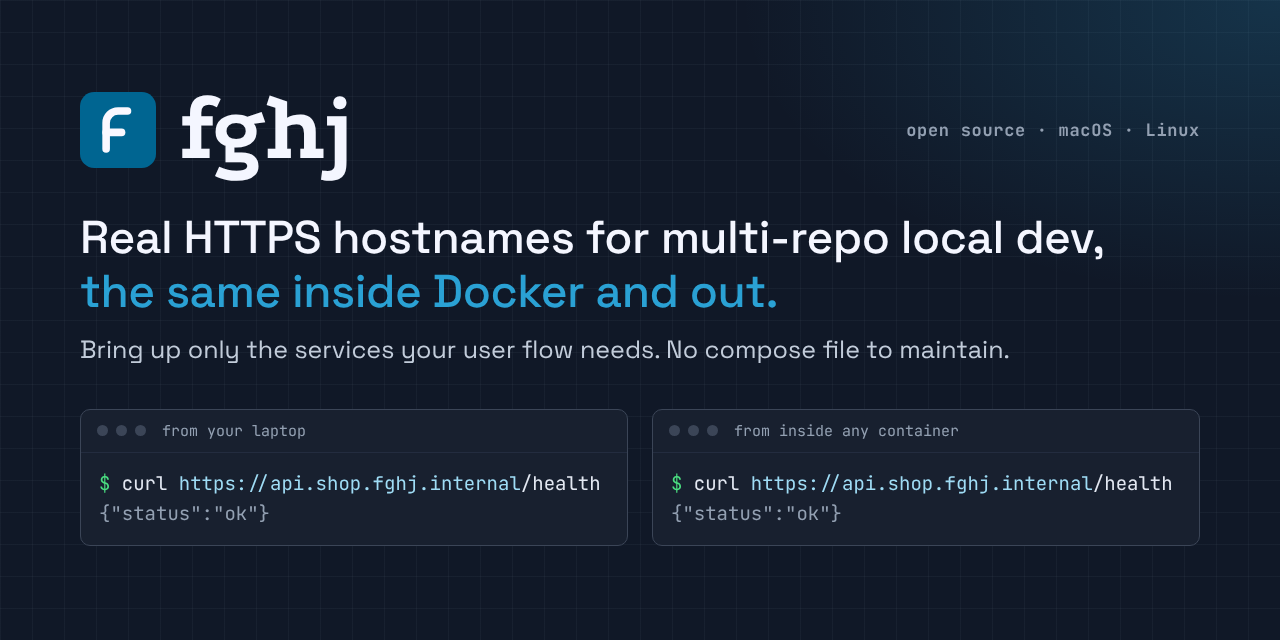
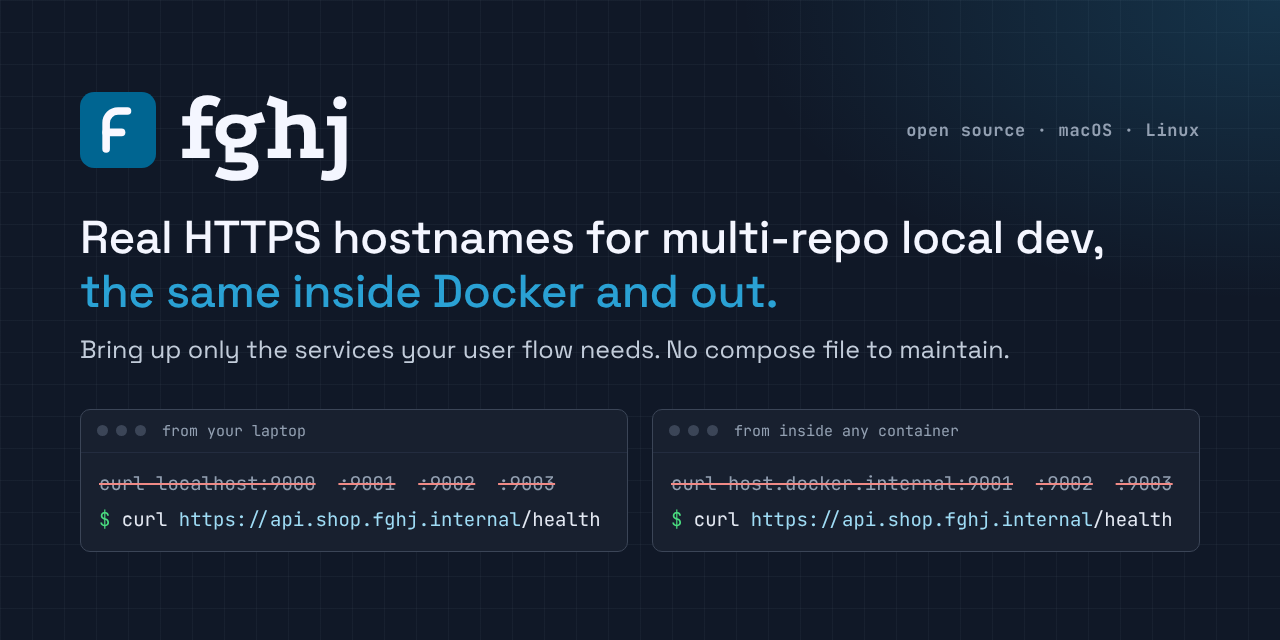
Social preview: show the port juggling fghj replaces

diff --git a/docs/record/social-preview.html b/docs/record/social-preview.html
@@ -22,6 +22,7 @@ body::before{content:"";position:absolute;inset:0;background:
 .t .bar span{width:11px;height:11px;border-radius:50%;background:#3b4557}
 .t .bar em{font-style:normal;margin-left:8px}
 .t pre{padding:16px 18px;font-family:'JetBrains Mono',monospace;font-size:19px;line-height:1.6;color:#e3e8f2}
+s{color:#93a0b2;text-decoration-color:#f08a86;text-decoration-thickness:2px}
 .p{color:#4ade80}.h{color:#9fdcf5}.o{color:#93a0b2}
 </style></head><body><div class="wrap">
 <div class="brand">
@@ -33,9 +34,9 @@ body::before{content:"";position:absolute;inset:0;background:
 <p class="sub">Bring up only the services your user flow needs. No compose file to maintain.</p>
 <div class="terms">
 <div class="t"><div class="bar"><span></span><span></span><span></span><em>from your laptop</em></div>
-<pre><span class="p">$</span> curl <span class="h">https://api.shop.fghj.internal</span>/health
-<span class="o">{"status":"ok"}</span></pre></div>
+<pre><s>curl localhost:9000</s>  <s>:9001</s>  <s>:9002</s>  <s>:9003</s>
+<span class="p" style="display:inline-block;margin-top:6px">$</span> curl <span class="h">https://api.shop.fghj.internal</span>/health</pre></div>
 <div class="t"><div class="bar"><span></span><span></span><span></span><em>from inside any container</em></div>
-<pre><span class="p">$</span> curl <span class="h">https://api.shop.fghj.internal</span>/health
-<span class="o">{"status":"ok"}</span></pre></div>
+<pre><s>curl host.docker.internal:9001</s>  <s>:9002</s>  <s>:9003</s>
+<span class="p" style="display:inline-block;margin-top:6px">$</span> curl <span class="h">https://api.shop.fghj.internal</span>/health</pre></div>
 </div></div></body></html>
